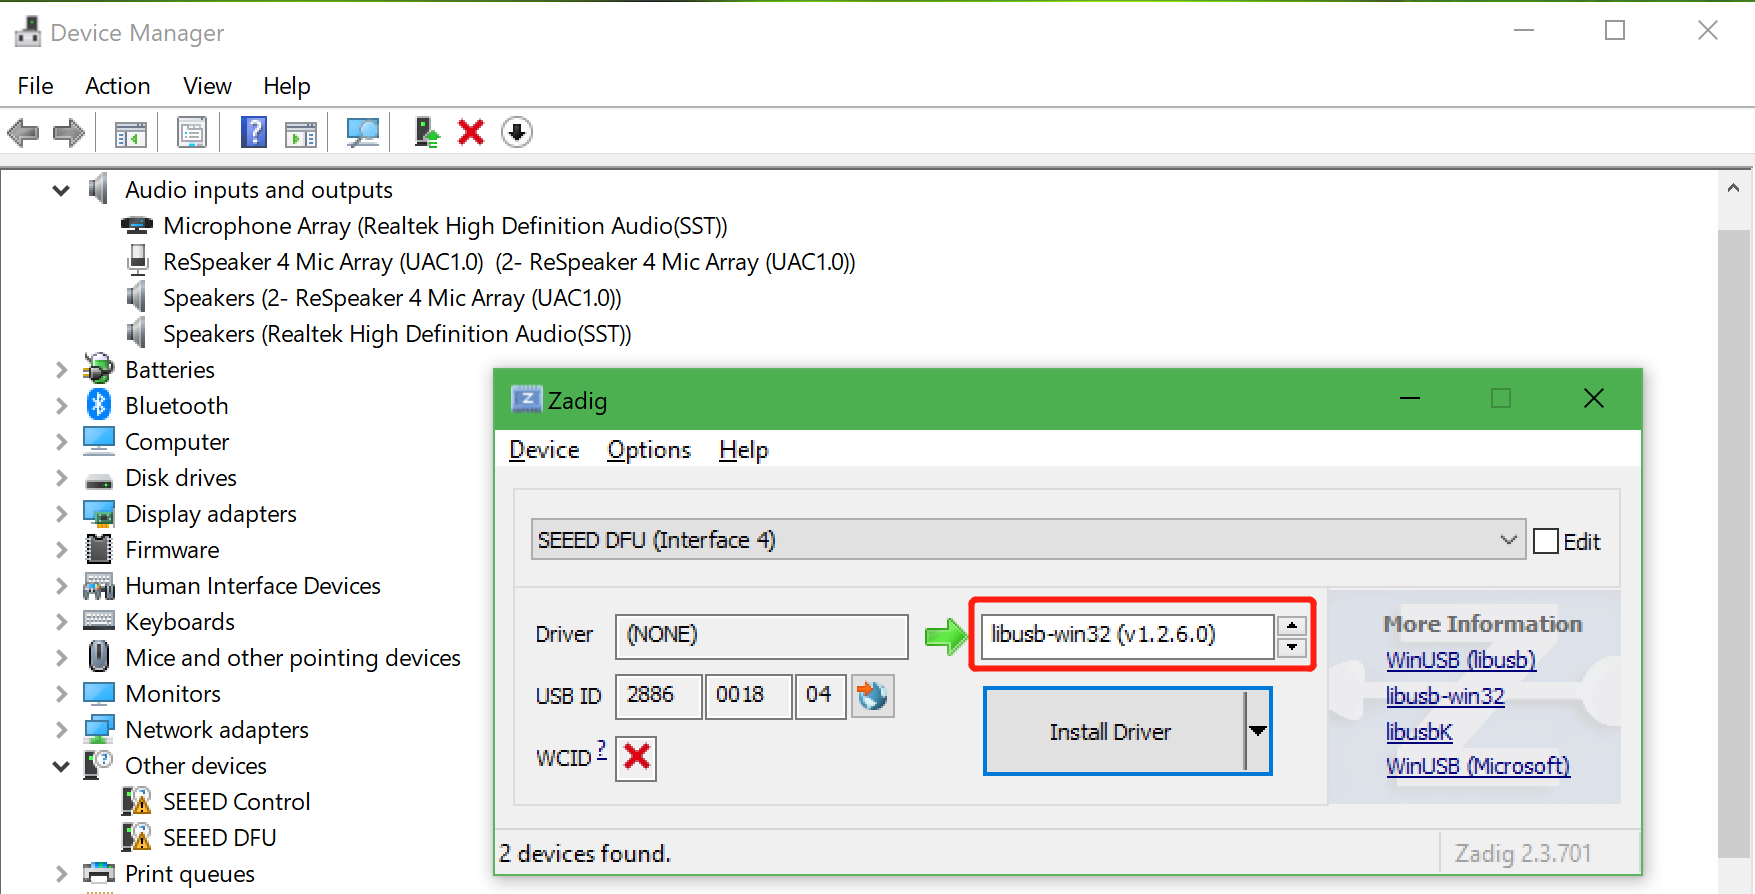
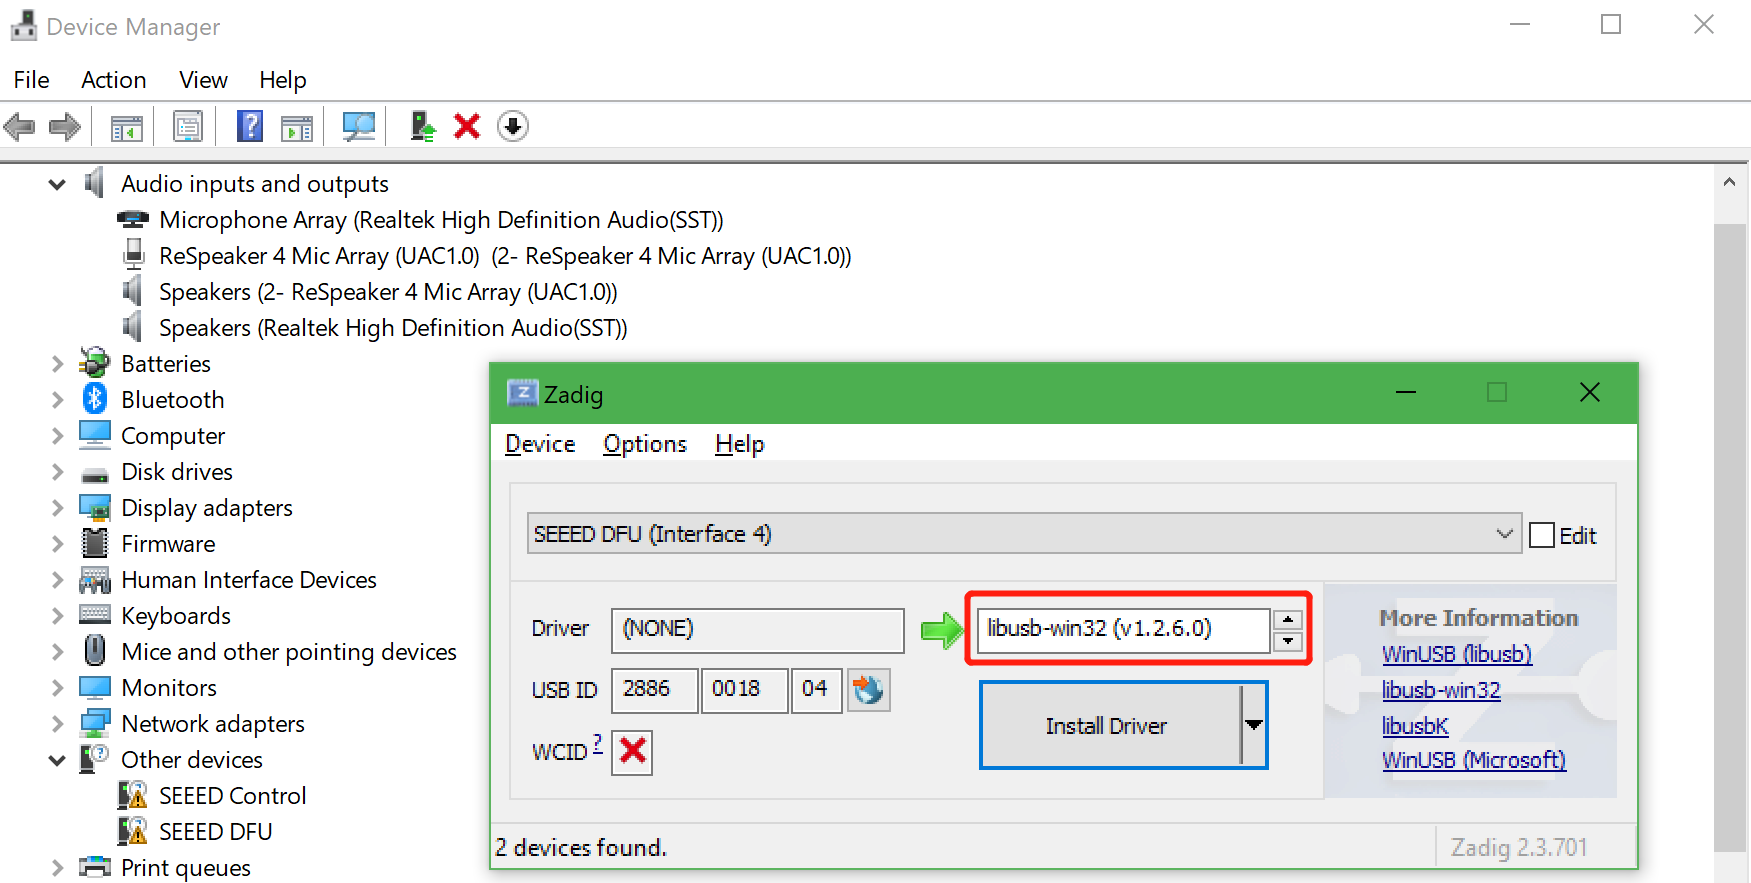
update

diff --git a/docs/usb_4_mic_array.md b/docs/usb_4_mic_array.md
@@ -15,16 +15,16 @@ The ReSpeaker USB 4 Mic Array is the successor of the ReSpeaker USB 6+1 Mic Arra
 ## Usage
 [Audacity](https://www.audacityteam.org/) is recommended.
 
-## Install DFU and LED control driver for Windows
-On Linux and macOS, the USB 4 Mic Array will just work. On Windows, audio recording and playback will also work without installing a driver. But in order to upgrade the device's firmware or to control LEDs an DSP parameters on Windows, the libusb-win32 driver is required. We use [a handy tool - Zadig]() to install the libusb-win32 driver for both `SEEED DFU` and `SEEED Control` (the USB 4 Mic Array has 4 devices on Windows Device Manager).
+## LED control driver for Windows
+On Linux and macOS, the USB 4 Mic Array will just work. On Windows, audio recording and playback will also work without installing a driver. But in order to control LEDs and to tune DSP parameters on Windows, the libusb-win32 driver is required. We use [a handy tool - Zadig]() to install the libusb-win32 driver for both `SEEED DFU` and `SEEED Control` (the USB 4 Mic Array has 4 devices on Windows Device Manager).
 
 ![](assets/images/usb_4mic_array_driver.png)
 
 !!! Note
     Make sure that libusb-win32 is selected, not WinUSB or libusbK
 
-## Device Firmware Update
-The Microphone Array supports USB DFU. We have [a python script - dfu.py](https://github.com/respeaker/mic_array_dfu/blob/master/dfu.py) to do that.
+## Device Firmware Update on Linux
+The Microphone Array supports USB DFU. We have [a python script dfu.py](https://github.com/respeaker/mic_array_dfu/blob/master/dfu.py) to do that.
 
 ```
 wget https://github.com/respeaker/mic_array_dfu/raw/master/dfu.py
@@ -32,6 +32,52 @@ pip install pyusb
 python dfu.py --download new_firmware.bin
 ```
 
-## How to control the RGB LED ring
-The USB 4 Mic Array has on-board 12 RGB LEDs and has a variety of light effects. Go to the [respeaker/pixel_ring](https://github.com/respeaker/pixel_ring) to learn how to use it. The LED control protocol is at [respeaker/pixel_ring wiki](https://github.com/respeaker/pixel_ring/wiki/ReSpeaker-USB-4-Mic-Array-LED-Control-Protocol).
+!!! Note
+    The USB DFU on Windows is buggy, some Windows work (tested on Surface Book), but some Windows don't. Using Linux to change its firmware is recommended.
 
+## How to control the RGB LED ring
+The USB 4 Mic Array has on-board 12 RGB LEDs and has a variety of light effects. Go to the [respeaker/pixel_ring](https://github.com/respeaker/pixel_ring/blob/master/pixel_ring/usb_pixel_ring_v2.py) to learn how to use it. The LED control protocol is at [respeaker/pixel_ring wiki](https://github.com/respeaker/pixel_ring/wiki/ReSpeaker-USB-4-Mic-Array-LED-Control-Protocol).
+
+## Tuning
+There are some parameters of built-in algorithms to configure. For example, we can turn off Automatic Gain Control (AGC):
+
+```
+python tuning.py AGCONOFF 0
+```
+
+To get the full list parameters, run:
+
+```
+python tuning.py -p
+```
+
+## Realtime sound source localization and tracking
+[ODAS](https://github.com/introlab/odas) is a very cool project to perform sound source localization, tracking, separation and post-filtering. Let's have a try!
+
+1. get ODAS and build it
+
+```
+sudo apt-get install libfftw3-dev libconfig-dev libasound2-dev
+git clone https://github.com/introlab/odas.git --branch=dev
+mkdir odas/build
+cd odas/build
+cmake ..
+make
+```
+
+2. get ODAS Studio from https://github.com/introlab/odas_web/releases and open it.
+
+The `odascore` will be at `odas/bin/odascore`, the config file is at [odas.cfg](https://github.com/respeaker/usb_4_mic_array/blob/master/odas.cfg). Change `odas.cfg` based on your sound card number.
+
+
+```
+    interface: {
+        type = "soundcard";
+        card = 1;
+        device = 0;
+    }
+```
+
+3. upgrade your usb 4 mic array with [i6_firmware.bin](https://github.com/respeaker/usb_4_mic_array/blob/master/i6_firmware.bin) which provides 4 channels raw audio data.
+
+![](https://github.com/introlab/odas_web/raw/master/screenshots/live_data.png)

diff --git a/docs/4_mic_array.md b/docs/4_mic_array.md
@@ -2,10 +2,40 @@
 
 ![](assets/images/4_mic_array.jpg)
 
+[![Get One](assets/images/get_one.png)](https://www.seeedstudio.com/ReSpeaker-4-Mic-Array-for-Raspberry-Pi-p-2941.html)
+
 The ReSpeaker 4 Mic Array for Raspberry Pi is a Pi hat with a 12 RGB LEDs ring.
 It is designed to build voice enabled applications such as Google Assistant and Alexa.
 
 There are several algorithms such as DOA, VAD, NS and KWS we can use with the 4 mic array.
+
+## Sound Source Localization & Tracking
+[ODAS](https://github.com/introlab/odas) is a very cool project to perform sound source localization, tracking, separation and post-filtering. Let's have a try!
+
+![](https://github.com/introlab/odas_web/raw/master/screenshots/live_data.png)
+
+1. get ODAS and build it
+
+        sudo apt-get install libfftw3-dev libconfig-dev libasound2-dev
+        git clone https://github.com/introlab/odas.git
+        mkdir odas/build
+        cd odas/build
+        cmake ..
+        make
+
+2. get ODAS Studio from https://github.com/introlab/odas_web/releases and open it. You can run ODAS Studio on a computer or the Raspberry Pi.
+
+    The `odascore` will be at `odas/bin/odascore`, the config file is at `odas/config/respeaker_4_mic_array.cfg`. Change `odas.cfg` based on your sound card number.
+
+
+        interface: {
+            type = "soundcard";
+            card = 1;
+            device = 0;
+        }
+
+
+    If you run the ODAS Studio on a computer, you should also need to change IP address from `127.0.0.1` to the IP of the computer.
 
 ## Resources
 + [Linux driver for Raspberry Pi](https://github.com/respeaker/seeed-voicecard)
@@ -16,5 +46,4 @@ There are several algorithms such as DOA, VAD, NS and KWS we can use with the 4 
 ## Wiki
 [http://wiki.seeedstudio.com/ReSpeaker_4_Mic_Array_for_Raspberry_Pi](http://wiki.seeedstudio.com/ReSpeaker_4_Mic_Array_for_Raspberry_Pi)
 
-[![Get One](assets/images/get_one.png)](https://www.seeedstudio.com/ReSpeaker-4-Mic-Array-for-Raspberry-Pi-p-2941.html)
 

diff --git a/docs/usb_6+1_mic_array.md b/docs/usb_6+1_mic_array.md
@@ -1,11 +1,17 @@
 # USB 6+1 Mic Array
 
+!!! Note
+    The USB 6+1 Mic Array is discontinued as its main IC is discontinued by the IC vendor.
+    [Its successor USB 4 Mic Array](/usb_4_mic_array) will come soon. The USB 4 Mic Array has better built-in audio processing algorithms.
+
 ![](assets/images/usb_6p1_mic_array.jpg)
 
+
 The USB 6+1 Mic Array is a circular microphone array with a 12 RGB LEDs ring. It has builtin VAD, DOA, NS and Beamforming algorithms.
+
+The 12 RGB LEDs are programmable and can be controled through USB HID interface. The Mic Array also supports USB DFU to change its firmware. There is a firmware providing 8 channels audio data (7 channels raw data, 1 combined channel).
+
 
 ### Resources
 + [respeaker python library](https://github.com/respeaker/respeaker_python_library) for audio recording and LED control
 + [Algorithms for raw data mic array](https://github.com/respeaker/mic_array)
-
-[![Get One](assets/images/get_one.png)](https://www.seeedstudio.com/ReSpeaker-Mic-Array-Far-field-w--7-PDM-Microphones--p-2719.html)

diff --git a/docs/index.md b/docs/index.md
@@ -9,7 +9,7 @@ The ReSpeaker project provides hardware components and software libraries to bui
 
 ## Hardware
 
-The hardware components include I2S microphone array for Raspberry Pi, USB microphone array for Linux/Windows/macOS, standalone ReSpeaker Core v1.0 & vv2.0.
+The hardware components include I2S microphone array for Raspberry Pi, USB microphone array for Linux/Windows/macOS, standalone ReSpeaker Core v1.0 & v2.0.
 
 ### Microphone Array
 
@@ -36,9 +36,7 @@ The hardware components include I2S microphone array for Raspberry Pi, USB micro
 
 ## Sofware
 
-Audio processing algorithms including VAD, DOA, Beamforming, NS, AEC and KWS are available and are evolving rapidly.
+Audio processing algorithms includes VAD, DOA, Beamforming, NS, AEC and KWS.
 
 ![](assets/images/mic_array.png)
-
-
 
